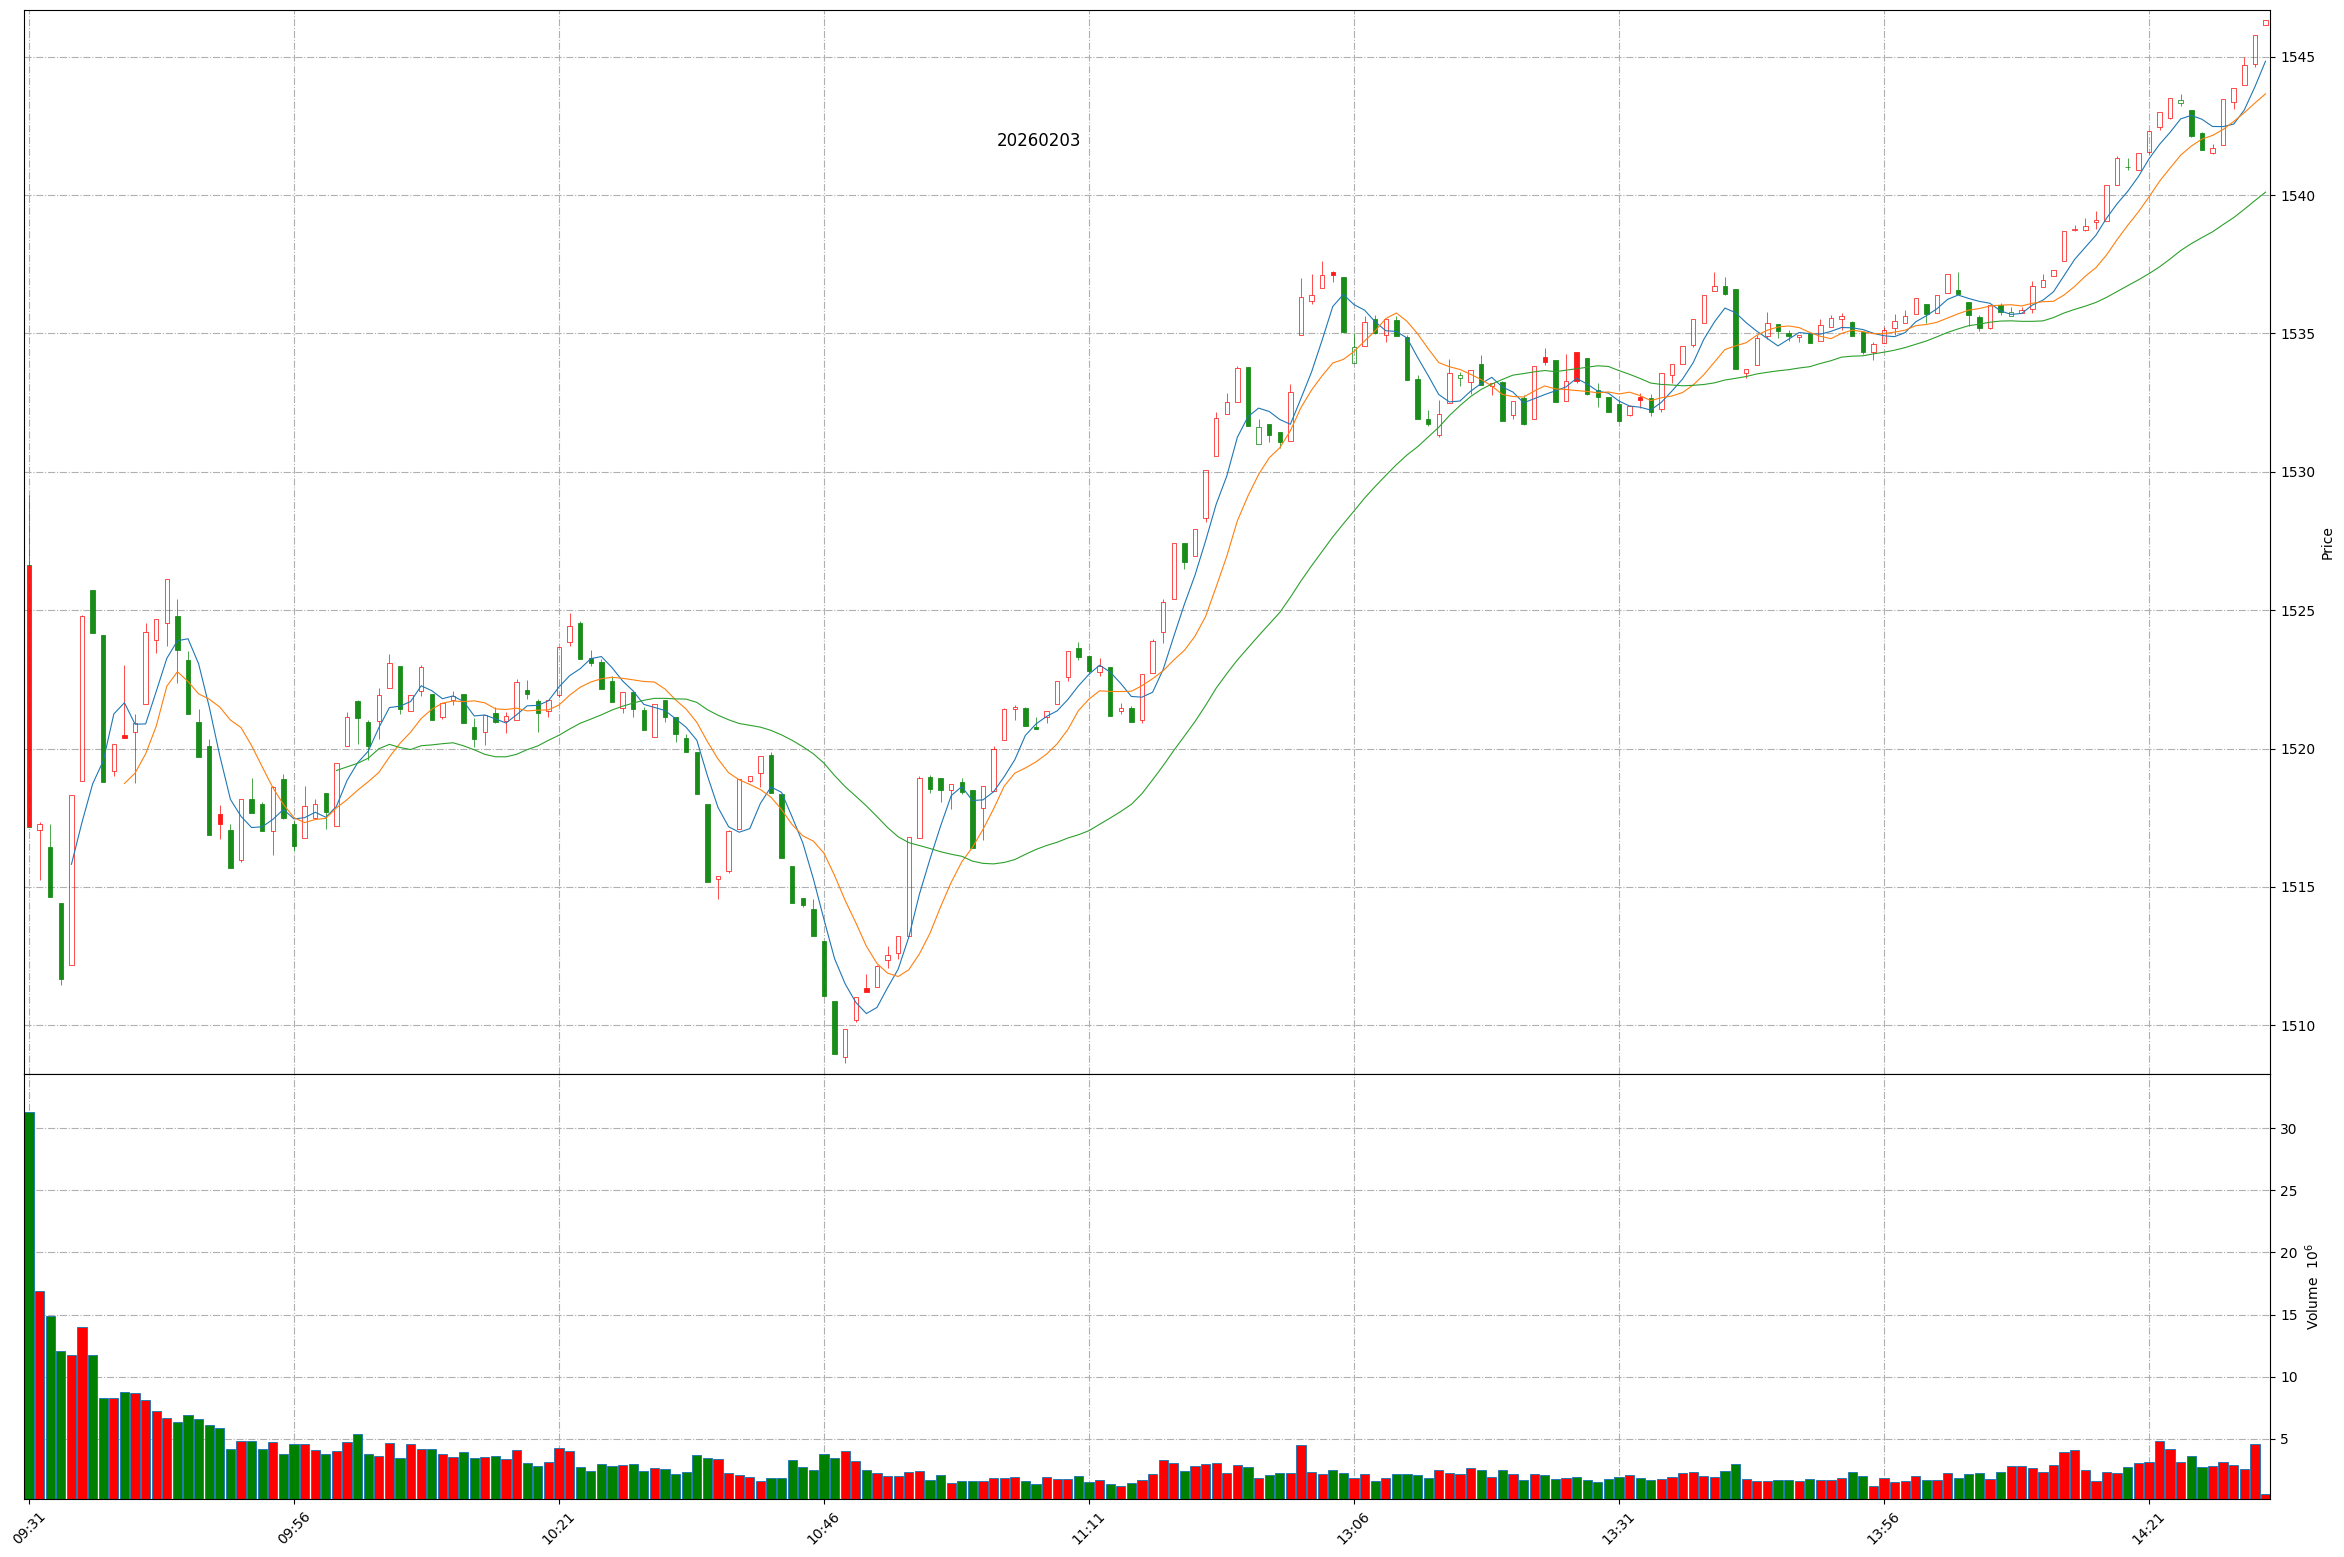
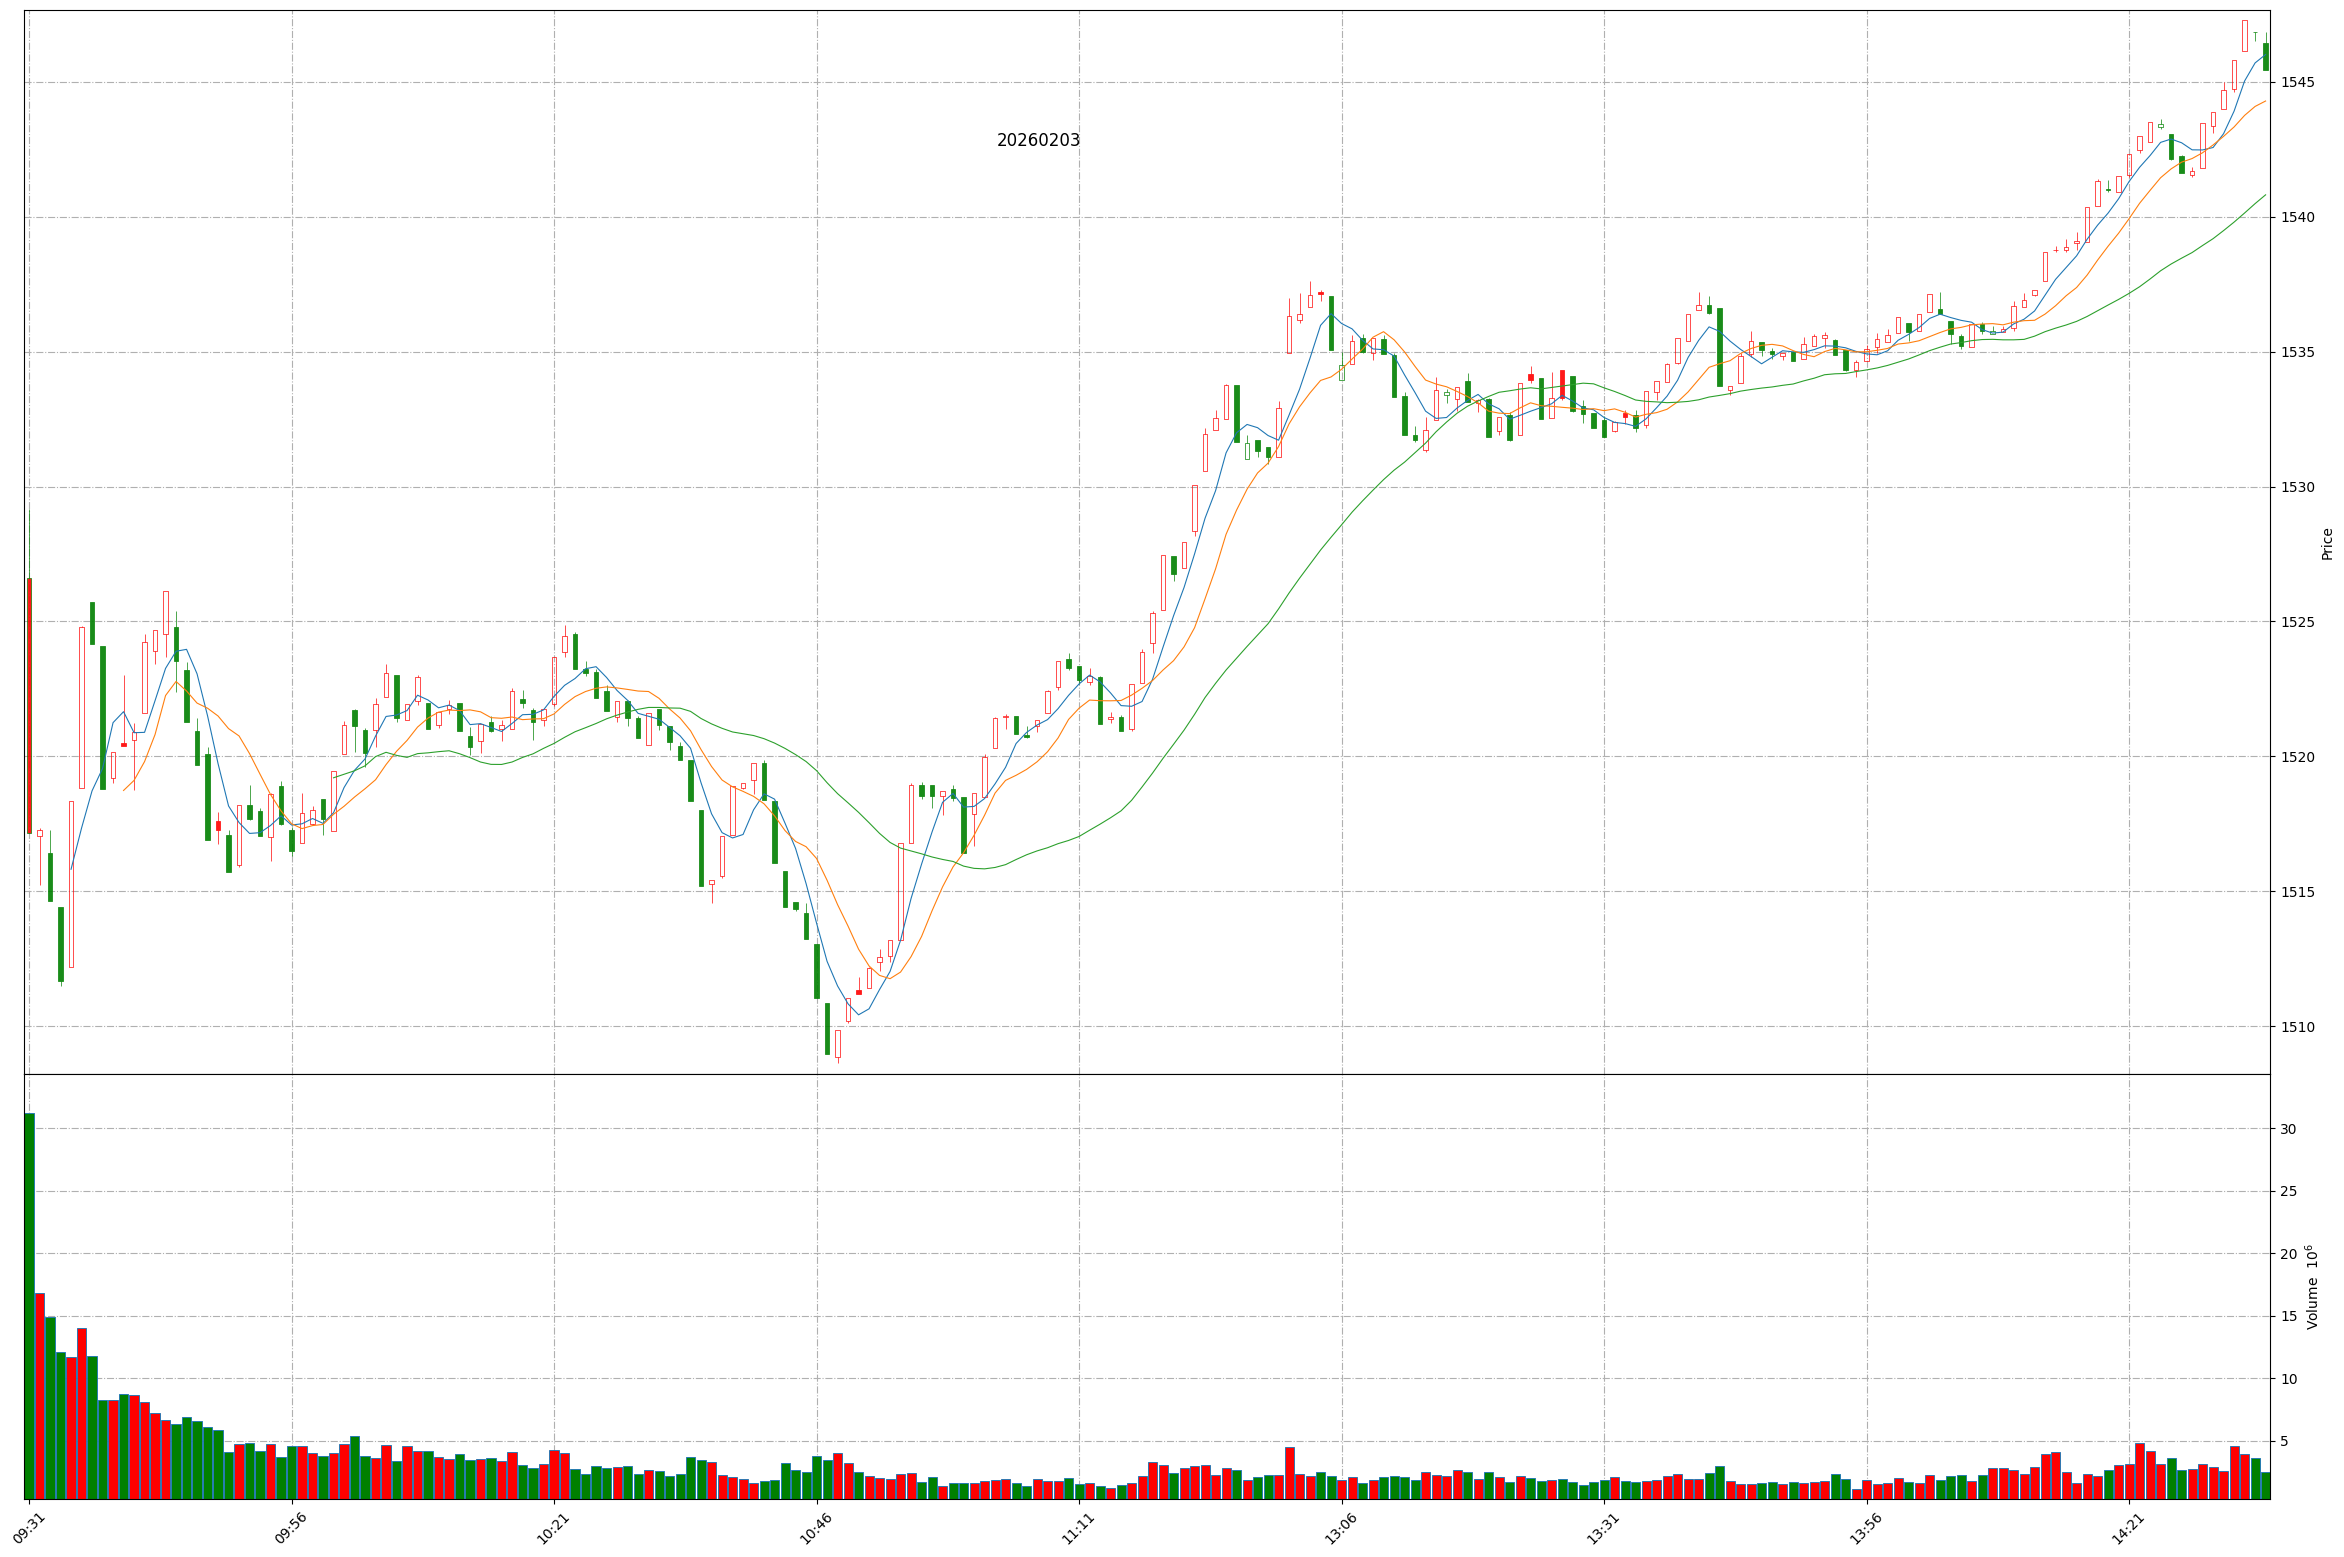
Github action update at 2026-02-03 14:33:58.

diff --git a/README.md b/README.md
@@ -1,11 +1,11 @@
 
 # Daily-A-share-market-quotes 每日 A 股指数（5min 更新）- 20260203
 
-### 上证指数 20260203 14:31
+### 上证指数 20260203 14:33
 ![](./fig/2026/2/20260203-sh000001.png)
 
-### 深证成指 20260203 14:31
+### 深证成指 20260203 14:33
 ![](./fig/2026/2/20260203-sz399001.png)
 
-### 北证50 20260203 14:31
+### 北证50 20260203 14:33
 ![](./fig/2026/2/20260203-bj899050.png)
